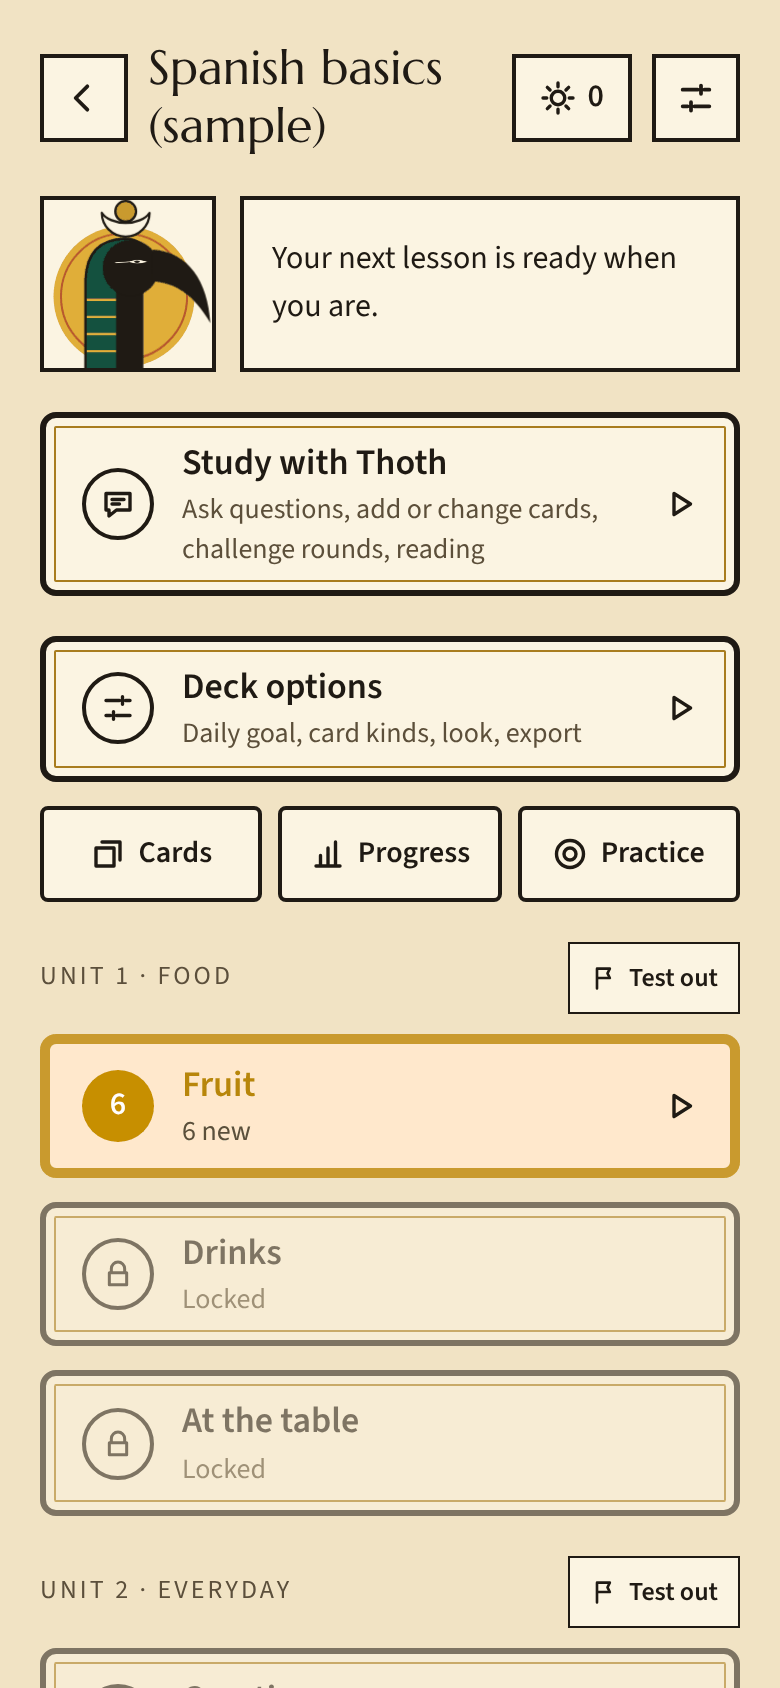
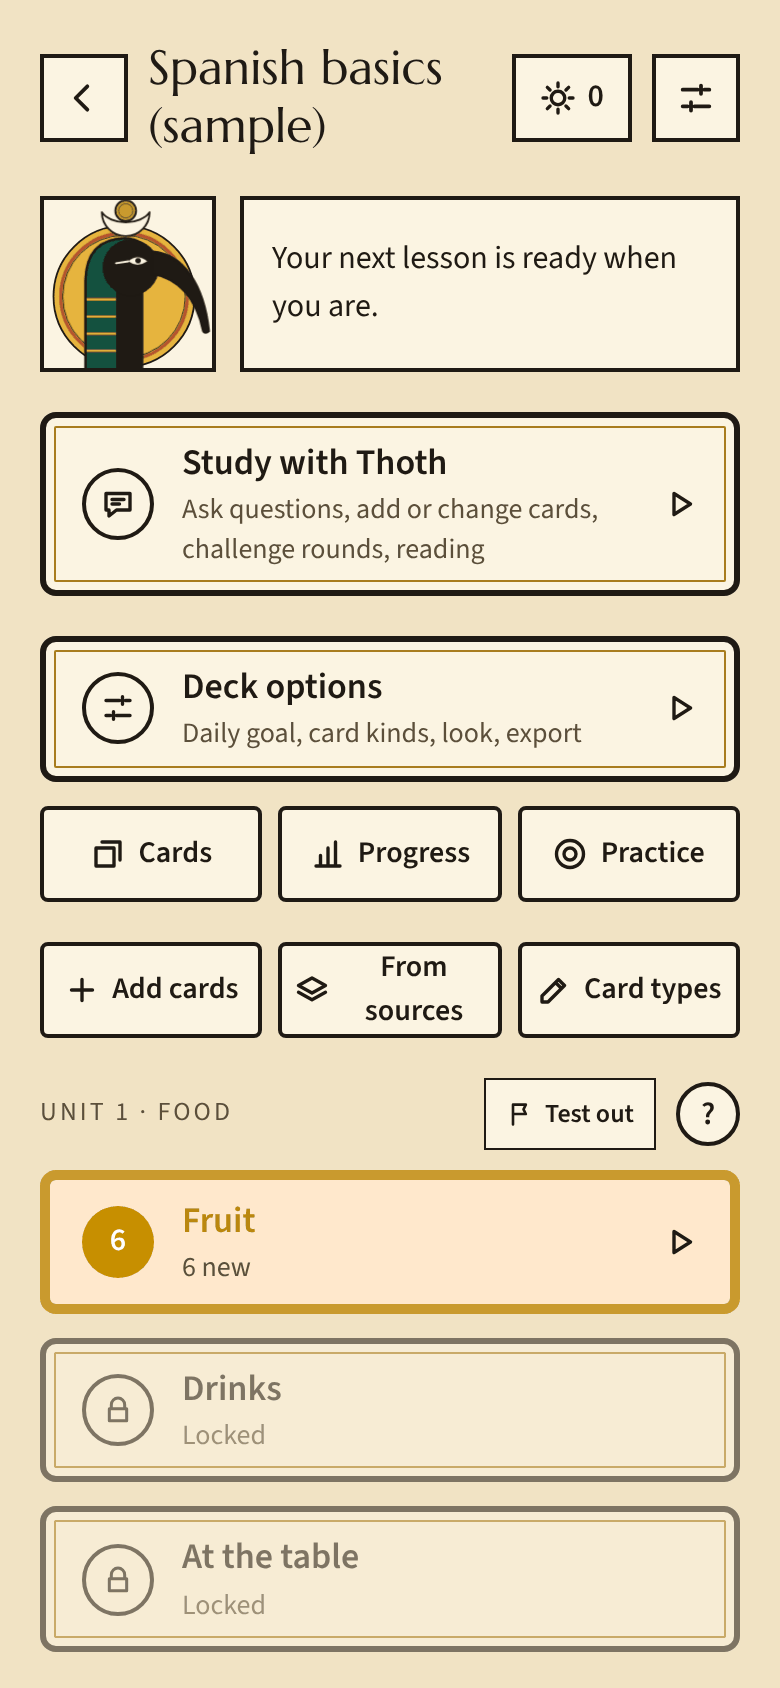
README: retake the screenshots that show Thoth, in his look since 0.4.1
The path, correct-answer, picture-card and Test out screenshots were taken
in 0.4.0. They are retaken from 0.6.0 with the same scenes, so they show
Thoth's slender bill, outlined disc and crown, and the rays on the large
portrait, along with the deck screen's newer buttons.

Claude-Session: https://claude.ai/code/session_018CbmJ8BJju8qCwHZbKJeDn

diff --git a/README.md b/README.md
@@ -16,14 +16,14 @@ account, no server, no tracking: your decks stay on your device.
 
 <table>
   <tr>
-    <td><img src="docs/screenshots/path.png" alt="A deck's lesson path with Thoth's suggestion, Study with Thoth, Deck options, and units of lessons" width="240"></td>
+    <td><img src="docs/screenshots/path.png" alt="A deck's lesson path with Thoth's suggestion, Study with Thoth, Deck options, the deck's tools, and units of lessons" width="240"></td>
     <td><img src="docs/screenshots/correct.png" alt="A multiple-choice question answered correctly; the card moves up a stage" width="240"></td>
     <td><img src="docs/screenshots/picture.png" alt="A picture card: one bone of the arm is hidden and two names are offered" width="240"></td>
   </tr>
   <tr>
     <td><img src="docs/screenshots/import.png" alt="Importing an Anki deck: fields matched from the card layout, with + to add more question and extra fields" width="240"></td>
     <td><img src="docs/screenshots/editor.png" alt="Drawing and naming the hidden parts of a picture card" width="240"></td>
-    <td><img src="docs/screenshots/testout.png" alt="Testing out of a unit: 12 of 12, unit passed" width="240"></td>
+    <td><img src="docs/screenshots/testout.png" alt="Testing out of a unit: 6 of 6, unit passed" width="240"></td>
   </tr>
 </table>
 
